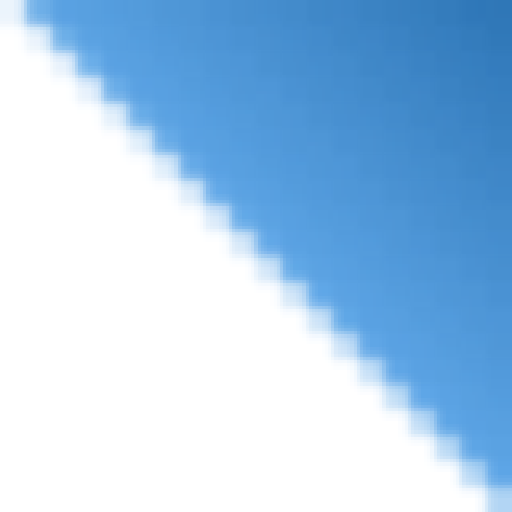
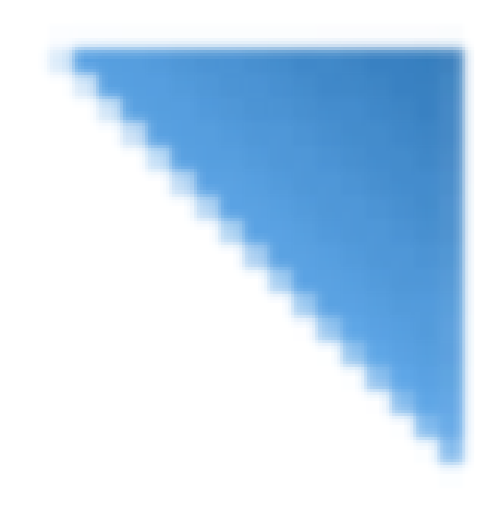
Nicer badges

diff --git a/InterfaceLIFT/InterfaceLIFT.m b/InterfaceLIFT/InterfaceLIFT.m
@@ -8,6 +8,7 @@
 #import "InterfaceLIFT.h"
 
 @implementation InterfaceLIFT {
+	NSString *_latestID;
 	NSOperationQueue *_workQueue;
 	NSOperationQueue *_wallpaperQueue;
 	NSOperationQueue *_thumbQueue;
@@ -39,6 +40,7 @@
 }
 
 - (void)dealloc {
+	[_latestID release];
 	[_workQueue release];
 	[_wallpaperQueue release];
 	[_thumbQueue release];
@@ -83,10 +85,9 @@
 }
 
 - (BOOL)galleryView:(GalleryView *)view isImageNewAtIndex:(NSUInteger)index {
-	NSString *latestID = [[NSUserDefaults standardUserDefaults] objectForKey:@"MRIL.LatestID"];
 	Wallpaper *wallpaper = [_wallpapers objectAtIndex:index];
 	
-	return [latestID compare:wallpaper.identifier options:NSNumericSearch] == NSOrderedAscending;
+	return [_latestID compare:wallpaper.identifier options:NSNumericSearch] == NSOrderedAscending;
 }
 
 - (NSString *)galleryView:(GalleryView *)view titleForImageAtIndex:(NSUInteger)index {
@@ -109,6 +110,8 @@
 
 - (void)mainViewDidLoad {
 	[super mainViewDidLoad];
+	
+	_latestID = [[[NSUserDefaults standardUserDefaults] stringForKey:@"MRIL.LatestID"] copy];
 	
 	[self loadNextPageOfWallpapers];
 }
